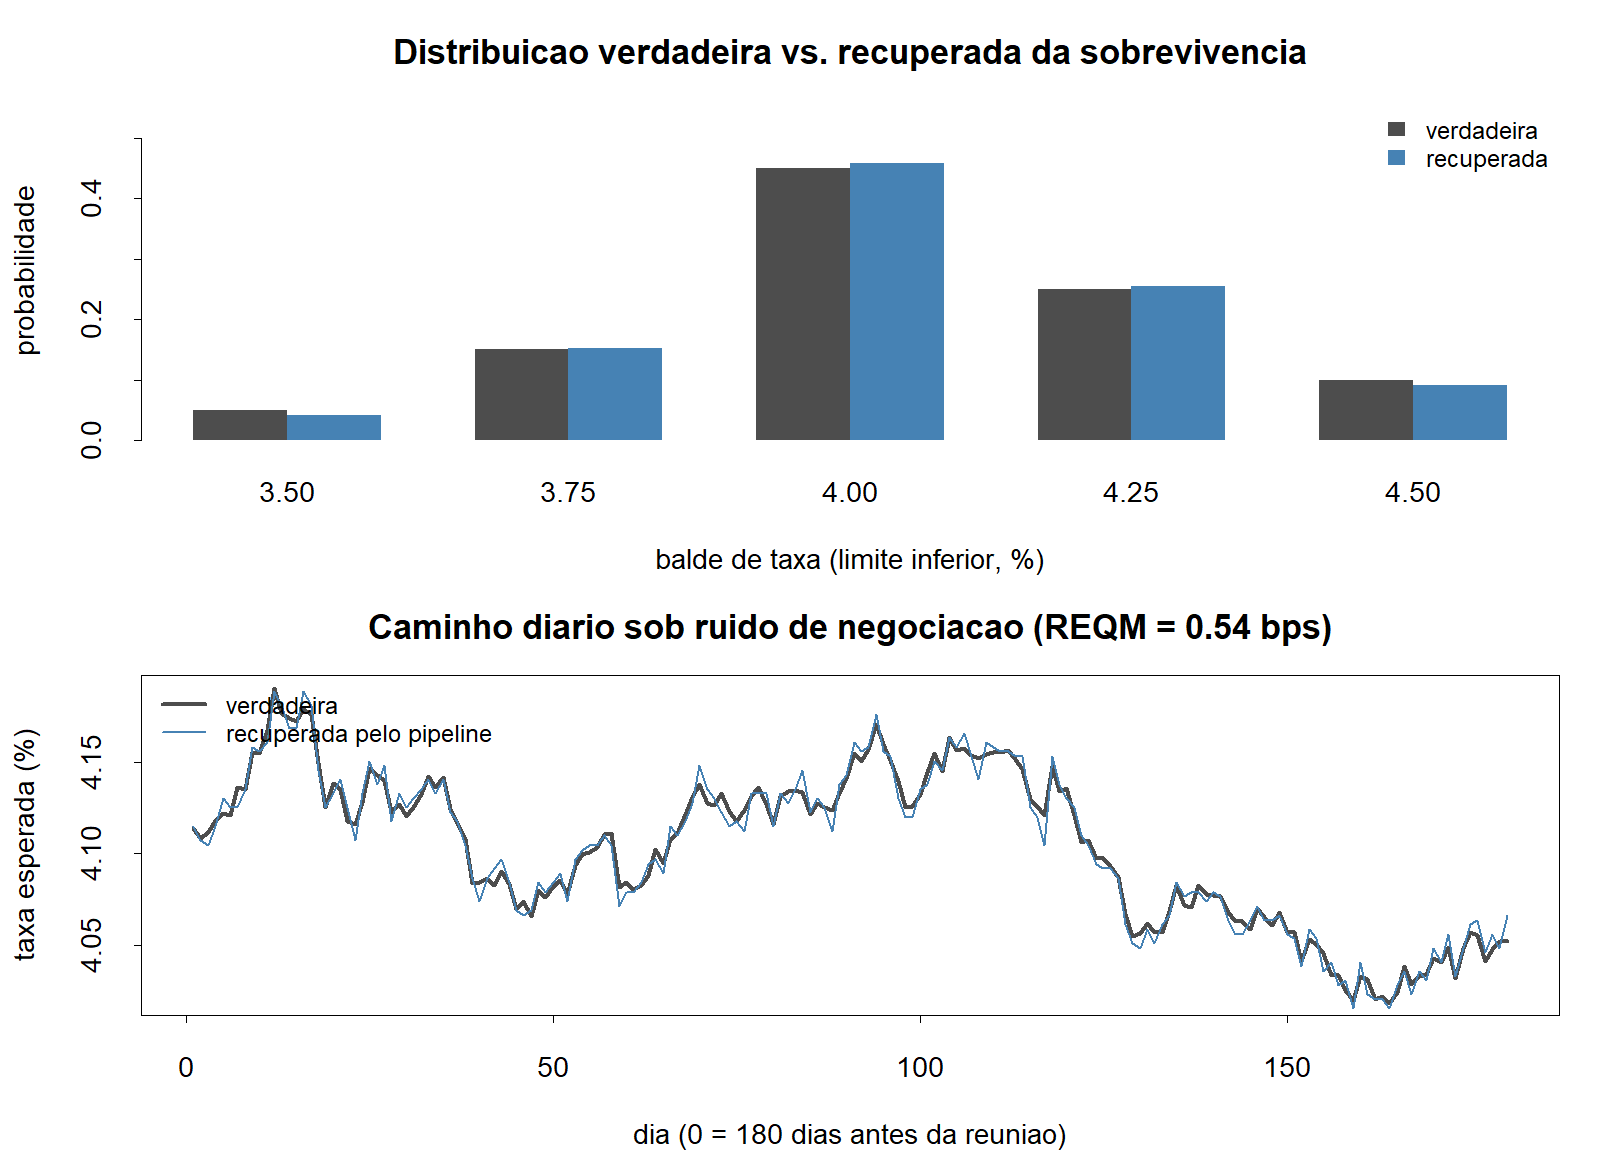
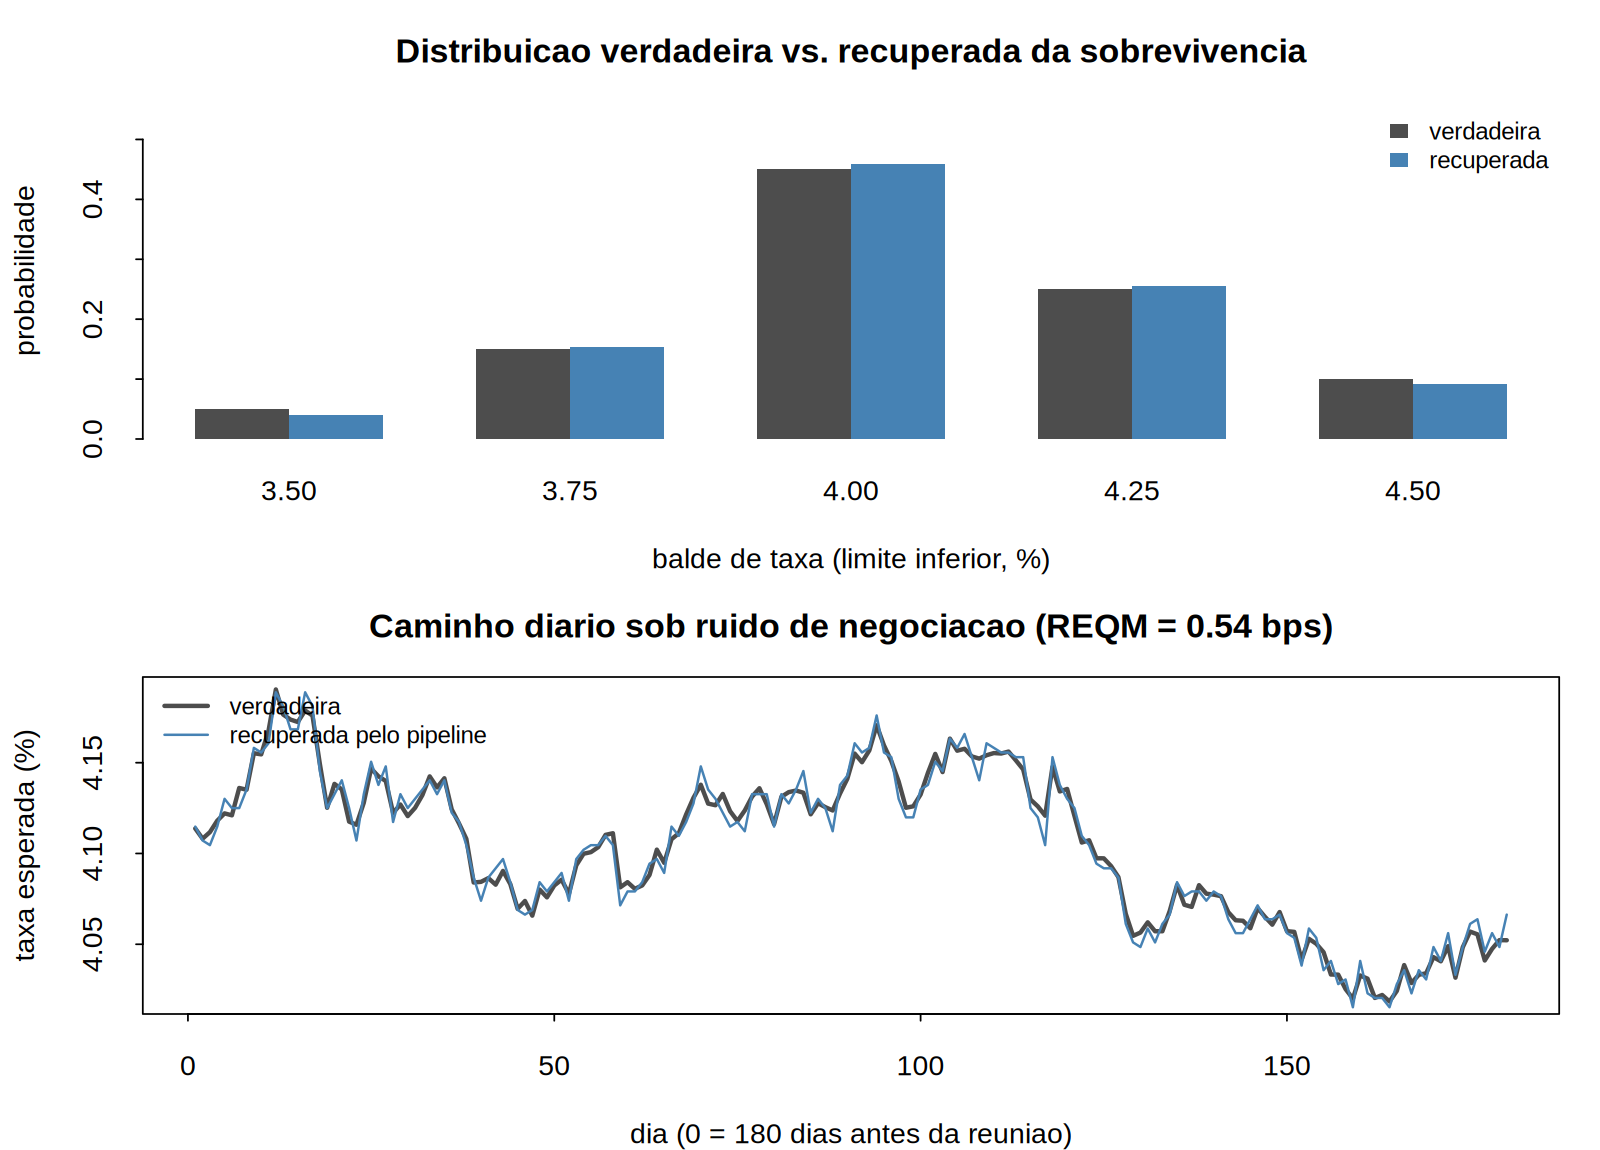
audita o replication package e endurece o nucleo contra o que ele herda
Revisao do codigo de Diercks, Katz & Wright no commit acd02b8, procurando
inconsistencias entre a prosa do artigo e o codigo, e internas ao codigo.
Dez achados em docs/auditoria_fonte.md. Os que mudam nosso codigo:

Bug de escopo em swap_probabilities. Em convert_trade_level_data_cdfs.R:372 o
ramo de fallback faz which.max(df$adjusted_yes_price) onde deveria usar
df_group. Indexa o painel inteiro em vez do grupo contrato-dia, de modo que a
guarda i != protected_idx fica sempre verdadeira e a protecao anticiclo nunca se
aplica -- exatamente no ramo degenerado que ela existe para tratar, quando nenhum
strike tem preco acima de 49 cents. Identico em convert_bid_ask_data_cdfs.R:382,
logo e defeito propagado por copiar-e-colar.

O Apendice A contradiz o proprio codigo de bid-ask. O apendice conclui que o
ponto medio e pouco confiavel por causa de spreads largos em contratos de cauda,
mas read_bid_ask() deles carrega filter_large_spreads, que marca spread acima de
10 cents e arrasta o ultimo par bom. Nao da para saber pelo material publico se a
Figura A.1 usou o filtro. Acrescentado spread_largo() ao nosso nucleo com o mesmo
limiar.

Tres regexes diferentes para ler o strike, e so a do bid-ask aceita valor
negativo e o sinal de menos Unicode. Pior: data_convert_runner.R:38 roteia o CPI
mensal, que pode ser negativo, pelo parser que rejeita negativos -- nessa rota a
cauda esquerda da distribuicao desapareceria em silencio. Inocuo para a FFR, mas
[…]

diff --git a/docs/auditoria_fonte.md b/docs/auditoria_fonte.md
@@ -1,0 +1,169 @@
+# Auditoria do replication package `jdkatz21/Prediction_Markets_Public`
+
+Revisão do código-fonte de Diercks, Katz & Wright (FEDS 2026-010) no commit
+`acd02b8`, procurando inconsistências entre a prosa do artigo e o código, e
+inconsistências internas ao próprio código.
+
+Nada aqui invalida o método — que continuamos usando. O objetivo é saber **onde
+não confiar cegamente** e o que herdar com cuidado.
+
+---
+
+## Achados confirmados
+
+### 1. Bug de escopo em `swap_probabilities` — duplicado em dois arquivos
+
+`convert_trade_level_data_cdfs.R:370-372`:
+
+```r
+protected_idx <- which(df_group$adjusted_yes_price > 49)
+if (length(protected_idx) == 0) {
+  protected_idx <- which.max(df$adjusted_yes_price)   # <- df, não df_group
+}
+```
+
+A linha de fallback indexa **o painel inteiro** (`df`) em vez do grupo
+contrato-dia (`df_group`). O valor retornado é um índice na casa dos milhares,
+enquanto `i` percorre as poucas linhas do grupo — logo a guarda `i != protected_idx`
+fica **sempre verdadeira** e a proteção nunca se aplica.
+
+O comentário do próprio código diz para que serve a guarda: *"to avoid cycles, we
+have to make sure everything goes to where the median is. Never swap the median
+location"*. O bug desativa a proteção anticiclo exatamente no ramo degenerado que
+ela existe para tratar: contrato-dia em que **nenhum** strike tem preço acima de
+49 cents.
+
+Idêntico em `convert_bid_ask_data_cdfs.R:382`. É defeito propagado por
+copiar-e-colar, não erro de digitação isolado.
+
+**Para nós:** não transcrevemos `swap_probabilities`. O `redistribute_empty_bins`
+da nossa implementação deve ser conferido contra este ramo.
+
+### 2. O Apêndice A contradiz o próprio código de bid-ask
+
+O Apêndice A conclui que o ponto médio bid/ask é pouco confiável *"due to
+occasionally large spreads on tail outcomes"* e fixa o último negócio.
+
+Mas `convert_bid_ask_data_cdfs.R:19` define `read_bid_ask(filter_large_spreads = T)`,
+que marca `abs(yes_bid_close - yes_ask_close) > 10` cents e **arrasta o último par
+bid/ask bom** — tratamento exato do problema que o apêndice usa como argumento.
+
+Pelo material público não dá para saber se a Figura A.1 foi produzida com ou sem o
+filtro. **Se foi sem, a comparação do apêndice não é contra o melhor pipeline de
+bid/ask deles.** Não é acusação: é uma questão em aberto que muda a leitura do
+resultado.
+
+**Para nós:** `spread_largo()` foi acrescentado a `R/fun_distribuicao.R`,
+replicando o limiar de 10 cents.
+
+### 3. Três regexes diferentes para o mesmo campo
+
+| Arquivo | Regex | Aceita strike negativo? |
+|---|---|---|
+| `convert_trade_level_data_cdfs.R:81` | `(?<=-T)\d+\.?\d*` | **não** |
+| `convert_bid_ask_data_cdfs.R:28` | `(?<=-T)[^\-]+$` + troca de `U+2212` por `-` | **sim** |
+| `convert_bid_ask_data_cdfs.R:141` | `(?<=-T)\d+\.?\d*` | não |
+| `convert_trade_level_data_pdfs.R:83` | `[^-]+$` | parcialmente |
+
+O arquivo de bid-ask carrega **duas** implementações conflitantes de leitura de
+strike. Só uma trata o sinal de menos Unicode.
+
+### 4. CPI mensal roteado pelo parser que rejeita negativos
+
+`data_convert_runner.R:38` manda `trade_level_data_headline_cpi_releases_mom.csv`
+pelo `extract_distributions` de `convert_trade_level_data_cdfs.R` — o que usa
+`\d+\.?\d*`.
+
+**CPI mensal pode ser negativo.** Se a escada de strikes da Kalshi inclui valores
+abaixo de zero, eles viram `NA`, são descartados pelo `na.omit()` em
+`fill_dataless_days`, e **a cauda esquerda da distribuição desaparece em silêncio**,
+viesando a média implícita para cima. Não consigo confirmar sem os dados — eles não
+estão no repositório (ver achado 9) — mas o caminho de código é esse.
+
+Para a FFR o ponto é inócuo: taxas não são negativas. Ainda assim, `le_strike()` foi
+acrescentado ao nosso núcleo aceitando negativo e o sinal Unicode, para não herdar a
+fragilidade.
+
+### 5. Remendo de dados presente em dois arquivos e ausente no terceiro
+
+`contract_preamble = ifelse(contract_preamble == 'FED-22JULY', 'FED-22JUL', ...)`
+aparece nos dois conversores de CDF e **não** no de PDF. É correção pontual de um
+defeito da fonte, aplicada em um caminho e não no outro.
+
+### 6. Colisão de nomes entre os três conversores
+
+Os três definem funções homônimas: `read_data`, `convert_to_daily`, `clean_data`,
+`convert_to_probabilities`, `get_moments`, `extract_distributions`.
+
+`data_convert_runner.R` faz `source()` deles em sequência, e cada `source`
+**sobrescreve silenciosamente** as definições anteriores. Funciona se o arquivo for
+executado de cima para baixo. Quebra sem aviso em uso interativo no RStudio — que é
+justamente o que os blocos comentados no fim de cada arquivo convidam a fazer.
+
+Num pacote cujo propósito declarado é *"transparency about methodological
+decisions"*, essa é a fragilidade mais séria da lista.
+
+### 7. Exemplos comentados não rodariam
+
+`extract_distributions` exige `output_wide` (sem valor padrão, posição 4). As **10**
+chamadas comentadas no fim de `convert_trade_level_data_cdfs.R` omitem o argumento.
+Descomentar qualquer uma dá erro de argumento faltante.
+
+### 8. Bloco de bid-ask rotulado "FFR levels" lê o arquivo de decisões
+
+`data_convert_runner.R:83-89`:
+
+```r
+# FFR levels
+# extract_distributions(input_file = 'data/orderbook_data/daily_bid_ask_fed_decisions_data.csv',
+#                       strike_int = 0.25, moment_adjustment = .125)
+```
+
+O rótulo diz **levels**, o arquivo é **fed_decisions**, e os parâmetros
+(`strike_int = 0.25`) são os de levels. Está comentado, então não roda — mas é
+exatamente o tipo de linha que um replicador descomenta.
+
+### 9. O README promete dados que o repositório não tem
+
+O README diz *"To use provided data: Skip this step — the data is already
+included."* Mas `data/` está no `.gitignore` do próprio repositório e não existe no
+clone. Não dá para pular a coleta.
+
+### 10. Prosa diz moda, código diz mediana
+
+A seção 3 do artigo descreve *"constructing the distribution outward from the
+**mode** toward the tails"*. O código ancora em `target = 49`, que é o cruzamento da
+**mediana** na escala 1–99 da Kalshi. Nosso `middle_out()` segue o código.
+
+---
+
+## O que NÃO é inconsistência
+
+`convert_trade_level_data_pdfs.R` **não diferencia** a sobrevivência — usa
+`probability = yes_price * 100 / sum` diretamente. Isso é **correto por desenho**: o
+arquivo trata contratos que pagam se o desfecho cai *dentro de um intervalo*, e não
+*acima de um limiar*. O artigo distingue os dois casos explicitamente na seção 3. Os
+dois conversores correspondem às duas estruturas de contrato.
+
+---
+
+## O que herdamos de bom: a checagem de robustez deles
+
+`robustness_data_runner.R` roda a mesma série variando dois eixos:
+
+- `convert_to_daily_method` ∈ {`last`, `VWAP`}
+- `clean_data_method` ∈ {`middle-out`, `left-to-right`, `right-to-left`}
+
+Nosso núcleo só implementava `middle-out`. `impoe_monotonicidade()` agora oferece os
+três, para que o relatório reproduza a mesma checagem. Os três divergem de fato —
+sobre os preços `95, 80, 87, 60, 10` (violação no terceiro):
+
+| Método | Resultado |
+|---|---|
+| `middle-out` | 95, **87**, 87, 60, 10 |
+| `left-to-right` | 95, **80**, 80, 60, 10 |
+| `right-to-left` | 95, **87**, 87, 60, 10 |
+
+A diferença é qual preço é tratado como autoritativo. Um apêndice de robustez que
+mostre a série sob os três métodos responde antecipadamente à pergunta óbvia de
+banca: *"e se a regra de monotonicidade fosse outra?"*
